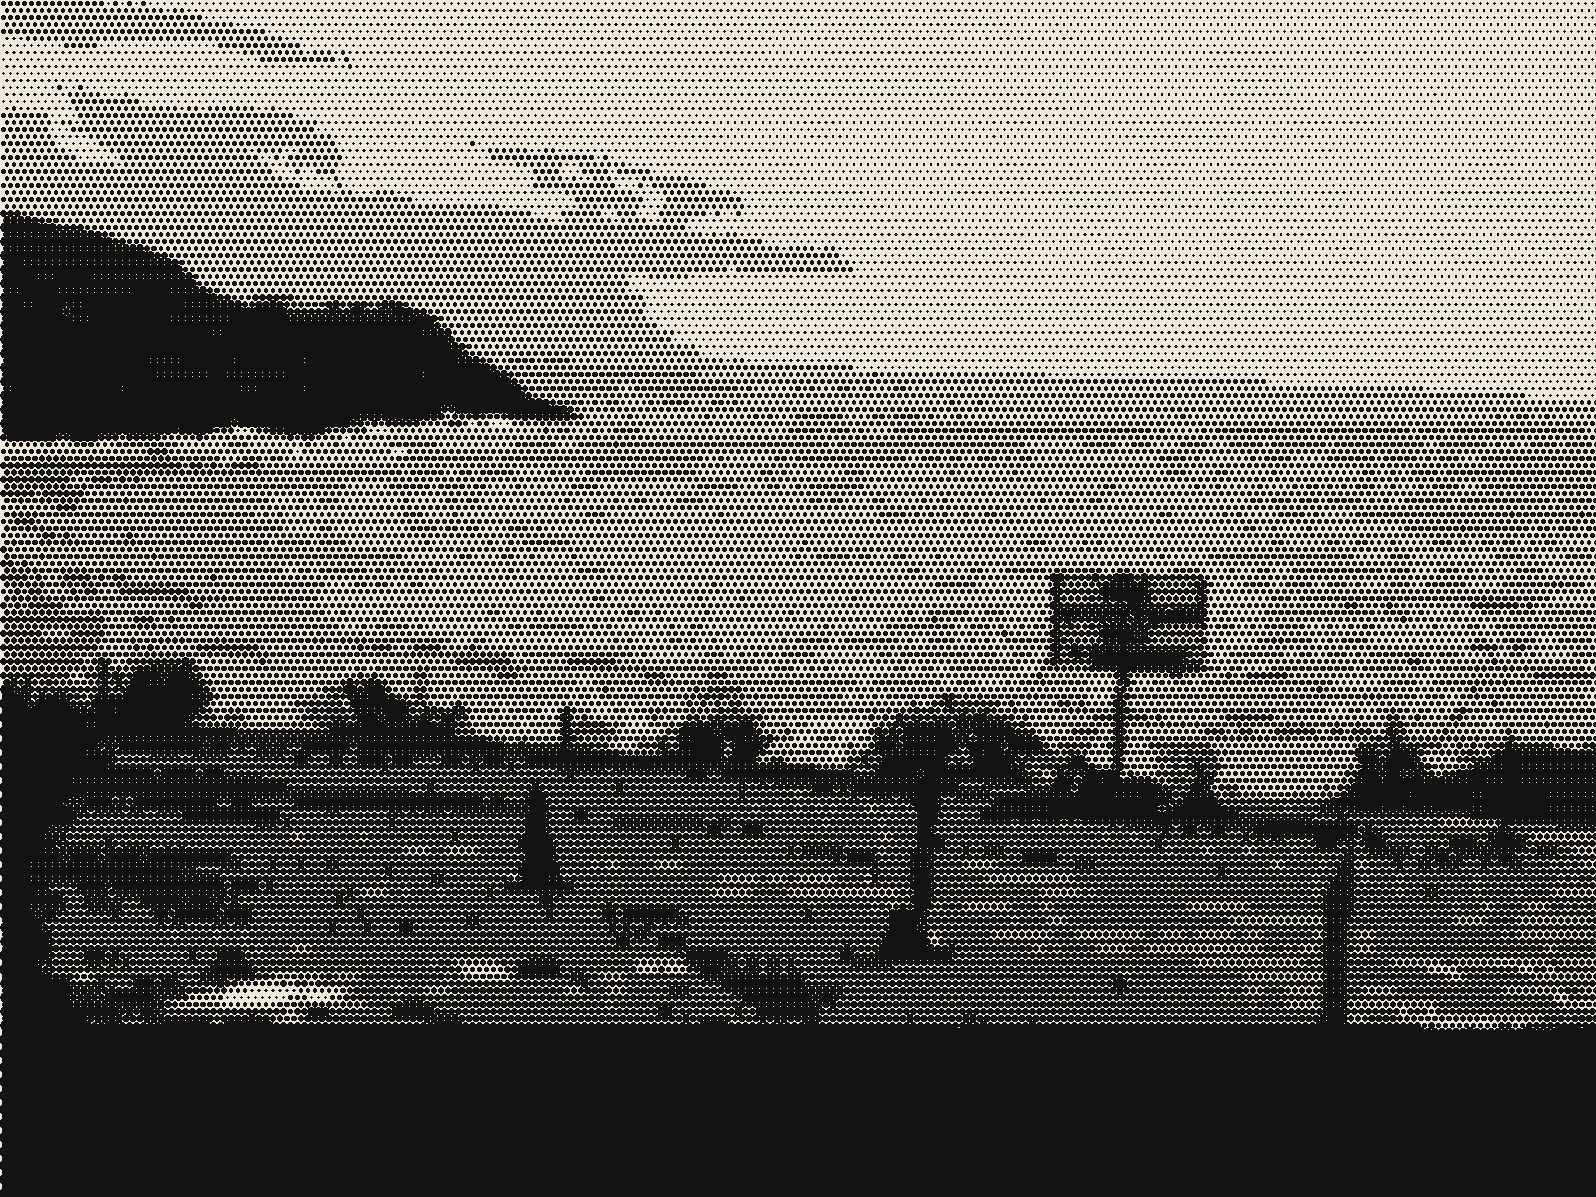
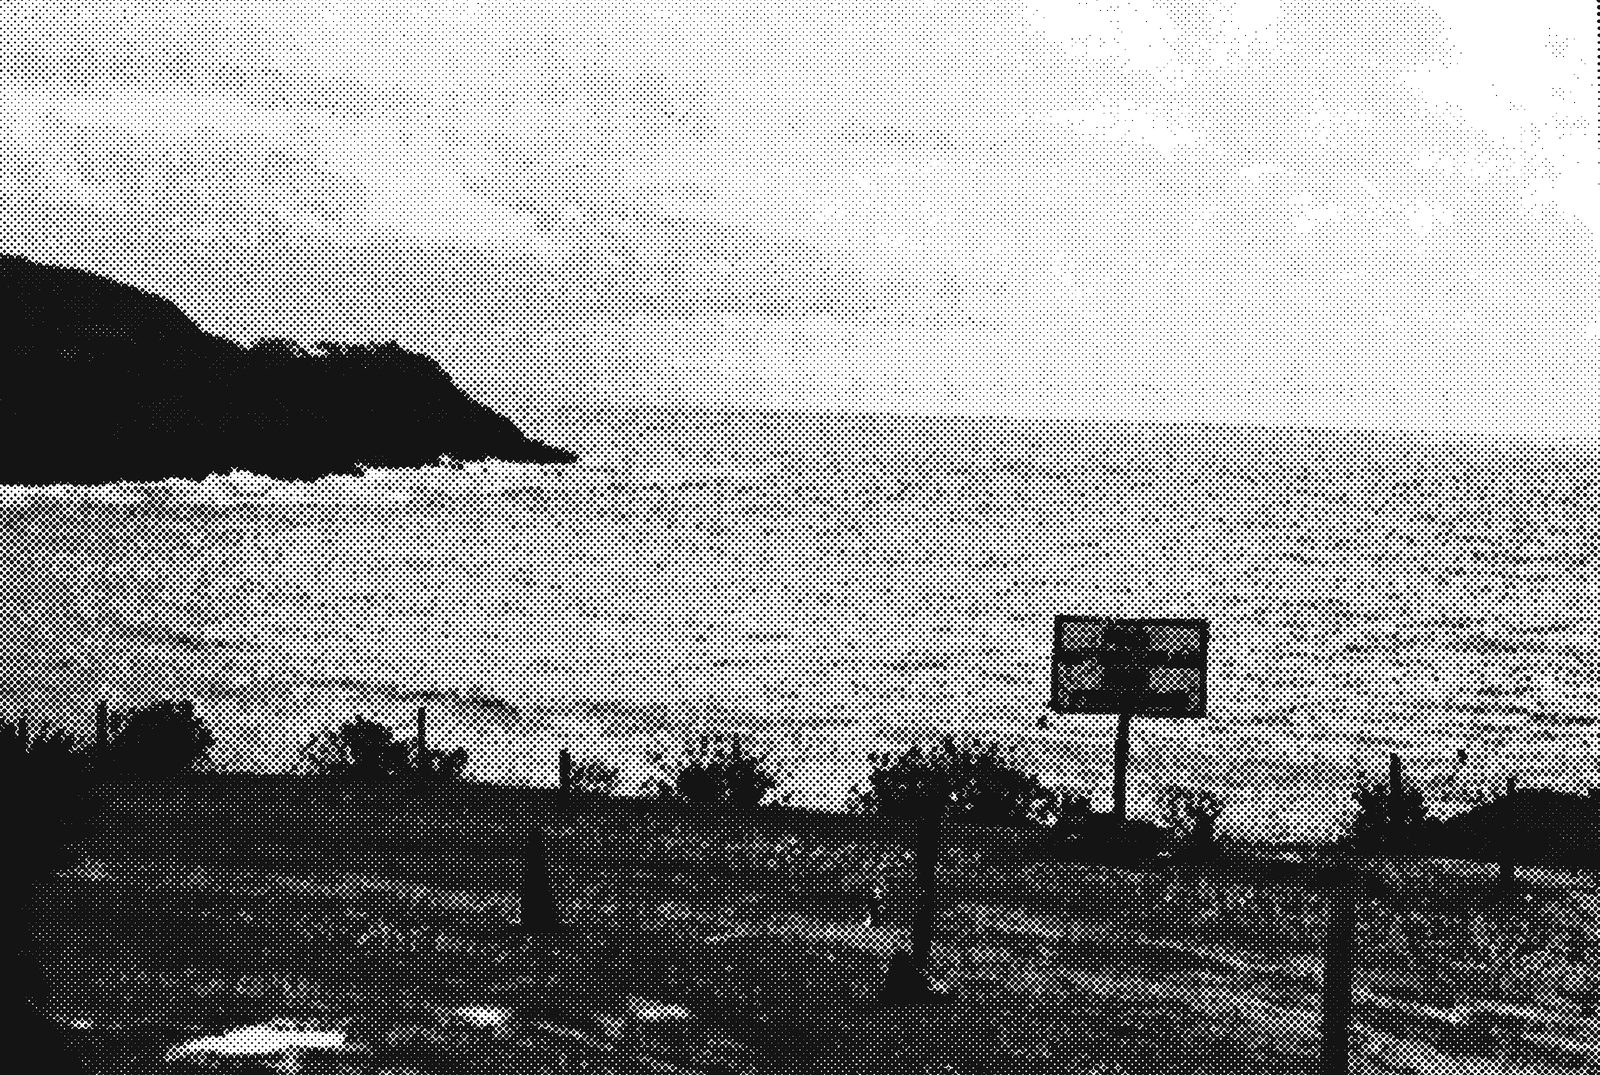
Paper prototype: true newsprint halftone, fold copies lay out alike, crease shadow
Claude-Session: https://claude.ai/code/session_01PXGsKPVnKFNYZtAxBV3Lta

diff --git a/mission/paper/index.html b/mission/paper/index.html
@@ -39,9 +39,13 @@ html[data-flip="fold"] .sheet { transform-style: flat; }
 /* each half is a real half-height window onto its own copy of the page (no clip-paths: Chrome will not hide the back of a clipped face) */
 .half { position: absolute; left: 0; right: 0; height: 50%; overflow: hidden; }
 .half--top { top: 0; background: var(--paper); }
+.half--top::after { content: ""; position: absolute; inset: 0; pointer-events: none; z-index: 5; background: linear-gradient(to bottom, rgba(0,0,0,0) 55%, rgba(0,0,0,.22)); opacity: var(--crease, 0); }
 .half--bottom .front { background: var(--paper); }
 .half--bottom { top: 50%; transform-origin: 50% 0%; transform-style: preserve-3d; backface-visibility: hidden; }
-.half--bottom .front .page { top: -100%; height: 200%; inset-inline: 0; }
+/* both halves hold a full-height copy of the page, so their columns break in exactly the same places */
+.half .page { height: 200%; inset-inline: 0; }
+.half--top .page { top: 0; }
+.half--bottom .front .page { top: -100%; }
 .half--bottom .front { position: absolute; inset: 0; overflow: hidden; backface-visibility: hidden; }
 .half--bottom .back { transform: rotateX(180deg); }
 .half--bottom .back::after { content: ""; position: absolute; inset: 0; background: linear-gradient(to top, rgba(0,0,0,.16), rgba(0,0,0,0) 45%); }
@@ -181,7 +185,7 @@ html.scrolled .hint { opacity: 0; }
       <div class="pull">“here I am.”<small>the whole mission, in three words</small></div>
     </div>
     <figure>
-      <img src="/img/mission/front.jpg" srcset="/img/mission/front-800.jpg 800w, /img/mission/front.jpg 1596w" sizes="40vw" alt="A dirt turnout above a grey sea, a hand-painted sign reading No Motorcycles, No Fireworks, and a headland beyond.">
+      <img src="/img/mission/front.jpg" srcset="/img/mission/front-800.jpg 800w, /img/mission/front.jpg 1600w" sizes="40vw" alt="A dirt turnout above a grey sea, a hand-painted sign reading No Motorcycles, No Fireworks, and a headland beyond.">
       <figcaption>Frame 04 · 35mm · the coast, a grey morning</figcaption>
     </figure>
     <div class="box" style="grid-column: 2">
@@ -304,6 +308,7 @@ html.scrolled .hint { opacity: 0; }
         const bottom = s.querySelector('.half--bottom');
         bottom.style.transform = `rotateX(${-180 * f}deg)`;
         bottom.style.filter = `brightness(${1 - .25 * Math.sin(Math.PI * f)})`;
+        s.style.setProperty('--crease', Math.sin(Math.PI * Math.min(1, f * 1.2)).toFixed(3));   // the top half darkens along the crease while the bottom lifts
         s.style.transformOrigin = '50% 0%';
         s.style.transform = `translateY(${-130 * g}%) rotate(${-2 * g}deg)`;
       }
